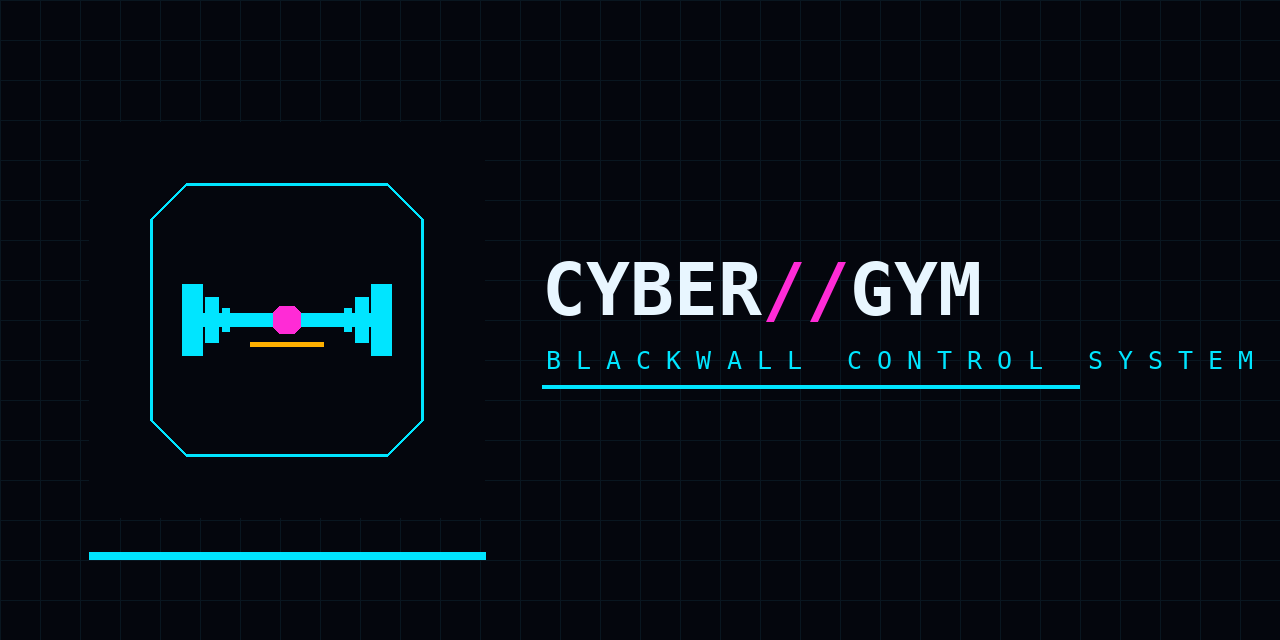
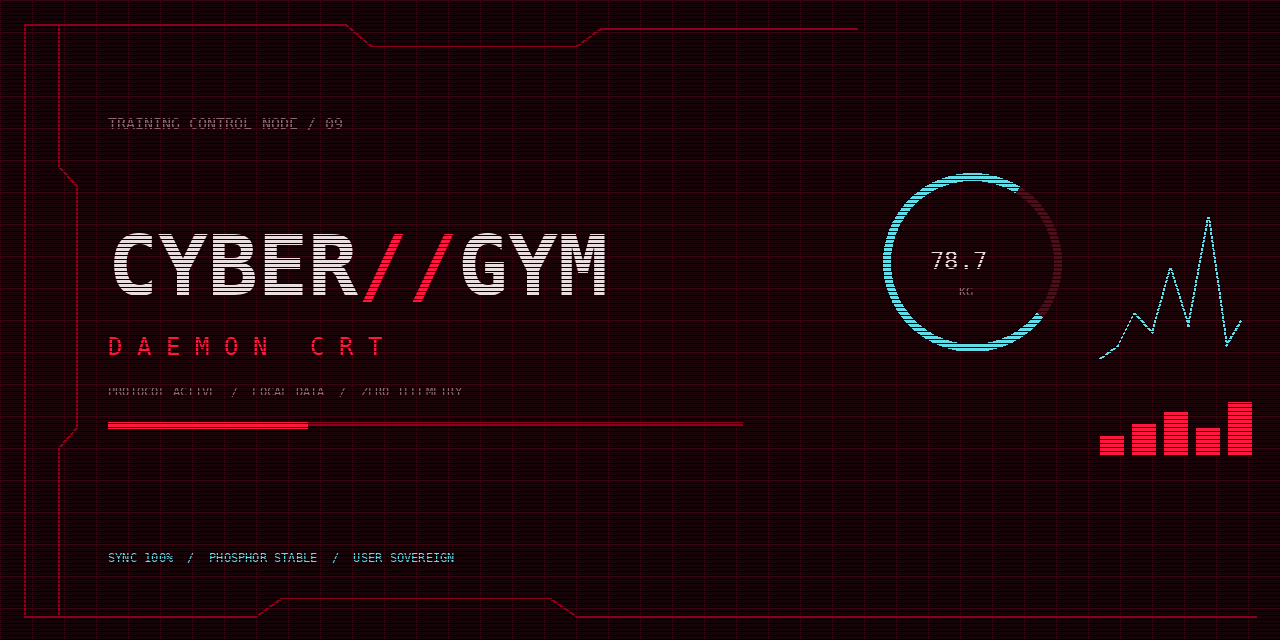
Refresh README visuals and mobile gallery

diff --git a/scripts/generate-brand-assets.py b/scripts/generate-brand-assets.py
@@ -84,33 +84,76 @@ def splash(w, h):
 
 
 def banner(w=1280, h=640):
-    img = Image.new('RGB', (w, h), BG[:3])
+    """Repository/social banner: a sparse DAEMON CRT control surface."""
+    daemon_bg = (8, 2, 4)
+    daemon_panel = (20, 4, 8)
+    daemon_red = (255, 23, 63)
+    daemon_red_dim = (139, 0, 28)
+    daemon_cyan = (98, 221, 232)
+    daemon_text = (234, 221, 224)
+    daemon_muted = (140, 105, 114)
+    img = Image.new('RGB', (w, h), daemon_bg)
     d = ImageDraw.Draw(img)
-    # grid
-    for x in range(0, w, 40):
-        d.line([(x, 0), (x, h)], fill=(9, 22, 32, 255))
-    for y in range(0, h, 40):
-        d.line([(0, y), (w, y)], fill=(9, 22, 32, 255))
-    size = int(h * 0.62)
-    mark = icon(size, maskable=True)
-    mx, my = int(w * 0.07), (h - size) // 2
-    img.paste(mark, (mx, my))
-    # wordmark
-    fs = int(h * 0.115)
-    f = ImageFont.truetype(FONT_MONO_BOLD, fs)
-    tx = mx + size + int(w * 0.045)
-    ty = h // 2 - fs
-    d.text((tx, ty), 'CYBER', font=f, fill=(232, 246, 255))
-    wlen = d.textlength('CYBER', font=f)
-    d.text((tx + wlen, ty), '//', font=f, fill=MAGENTA[:3])
-    wlen2 = d.textlength('CYBER//', font=f)
-    d.text((tx + wlen2, ty), 'GYM', font=f, fill=(232, 246, 255))
-    fs2 = int(h * 0.04)
-    f2 = ImageFont.truetype(FONT_MONO, fs2)
-    d.text((tx + 4, ty + int(fs * 1.35)), 'B L A C K W A L L   C O N T R O L   S Y S T E M', font=f2, fill=CYAN[:3])
-    d.rectangle([tx, ty + int(fs * 1.9), tx + int(w * 0.42), ty + int(fs * 1.9) + 3], fill=CYAN[:3])
-    # accent rule under the mark
-    d.rectangle([mx, my + size + 34, mx + size, my + size + 41], fill=CYAN[:3])
+
+    # Oxblood tube falloff and technical grid.
+    for y in range(h):
+        edge = abs((y / max(1, h - 1)) - 0.5) * 2
+        shade = int(8 * (1 - edge))
+        d.line([(0, y), (w, y)], fill=(daemon_panel[0] + shade, 4, 8))
+    grid = max(24, int(w / 40))
+    for x in range(0, w, grid):
+        d.line([(x, 0), (x, h)], fill=(54, 6, 17))
+    for y in range(0, h, grid):
+        d.line([(0, y), (w, y)], fill=(54, 6, 17))
+
+    rail = max(2, int(h * 0.003))
+    d.line([(24, 24), (int(w * .27), 24), (int(w * .29), 46), (int(w * .45), 46),
+            (int(w * .47), 28), (int(w * .67), 28)], fill=daemon_red_dim, width=rail)
+    d.line([(24, h - 24), (int(w * .2), h - 24), (int(w * .22), h - 42),
+            (int(w * .43), h - 42), (int(w * .45), h - 24), (w - 24, h - 24)],
+           fill=daemon_red_dim, width=rail)
+    d.line([(24, 24), (24, h - 24)], fill=daemon_red_dim, width=rail)
+    d.line([(58, 24), (58, int(h * .26)), (76, int(h * .29)), (76, int(h * .67)),
+            (58, int(h * .7)), (58, h - 24)], fill=daemon_red_dim, width=rail)
+
+    tx = int(w * 0.085)
+    f_title = ImageFont.truetype(FONT_MONO_BOLD, int(h * 0.13))
+    f_kicker = ImageFont.truetype(FONT_MONO, int(h * 0.024))
+    f_sub = ImageFont.truetype(FONT_MONO, int(h * 0.038))
+    f_data = ImageFont.truetype(FONT_MONO, int(h * 0.02))
+    d.text((tx, int(h * .18)), 'TRAINING CONTROL NODE / 09', font=f_kicker, fill=daemon_muted)
+    y_title = int(h * .34)
+    d.text((tx, y_title), 'CYBER', font=f_title, fill=daemon_text)
+    title_w = d.textlength('CYBER', font=f_title)
+    d.text((tx + title_w, y_title), '//', font=f_title, fill=daemon_red)
+    title_w2 = d.textlength('CYBER//', font=f_title)
+    d.text((tx + title_w2, y_title), 'GYM', font=f_title, fill=daemon_text)
+    d.text((tx, int(h * .52)), 'D A E M O N   C R T', font=f_sub, fill=daemon_red)
+    d.text((tx, int(h * .6)), 'PROTOCOL ACTIVE  /  LOCAL DATA  /  ZERO TELEMETRY', font=f_data, fill=daemon_muted)
+    d.rectangle([tx, int(h * .66), int(w * .58), int(h * .665)], fill=daemon_red_dim)
+    d.rectangle([tx, int(h * .66), int(w * .24), int(h * .67)], fill=daemon_red)
+
+    # Sparse telemetry: one ring, one trace, one bar bank.
+    cx, cy, radius = int(w * .76), int(h * .41), int(h * .14)
+    d.ellipse([cx - radius, cy - radius, cx + radius, cy + radius], outline=(71, 16, 27), width=max(4, rail * 4))
+    d.arc([cx - radius, cy - radius, cx + radius, cy + radius], 38, 302, fill=daemon_cyan, width=max(4, rail * 4))
+    d.text((cx - int(radius * .48), cy - int(h * .025)), '78.7', font=f_sub, fill=daemon_text)
+    d.text((cx - int(radius * .15), cy + int(h * .035)), 'KG', font=f_data, fill=daemon_muted)
+    gx0, gy0, gx1 = int(w * .86), int(h * .28), int(w * .97)
+    for idx in range(4):
+        gy = gy0 + idx * int(h * .075)
+        d.line([(gx0, gy), (gx1, gy)], fill=(93, 19, 34))
+    trace = [(gx0, int(h * .56)), (gx0 + 18, int(h * .54)), (gx0 + 34, int(h * .49)),
+             (gx0 + 52, int(h * .52)), (gx0 + 70, int(h * .42)), (gx0 + 88, int(h * .51)),
+             (gx0 + 108, int(h * .34)), (gx0 + 126, int(h * .54)), (gx1, int(h * .5))]
+    d.line(trace, fill=daemon_cyan, width=max(2, rail))
+    for idx, height in enumerate((18, 30, 42, 26, 52)):
+        x = gx0 + idx * int(w * .025)
+        d.rectangle([x, int(h * .71) - height, x + int(w * .018), int(h * .71)], fill=daemon_red)
+
+    d.text((tx, int(h * .86)), 'SYNC 100%  /  PHOSPHOR STABLE  /  USER SOVEREIGN', font=f_data, fill=daemon_cyan)
+    for y in range(3, h, 4):
+        d.line([(0, y), (w, y)], fill=(0, 0, 0), width=1)
     return img
 
 

diff --git a/README.md b/README.md
@@ -1,14 +1,36 @@
 # Cyber Gym
 
-![Cyber Gym](assets/banner.svg)
+![Cyber Gym — DAEMON CRT training control system](assets/banner.svg)
 
 **Персональный дневник тренировок и веса тела.** Программы, подходы, повторения, отдых,
 рекорды, статистика и ИИ-тренер — в одном тёмном интерфейсе, который работает как
 приложение на телефоне и как сайт на своём сервере.
 
-> **Blackwall** — так называется дизайн-система Cyber Gym: почти чёрный фон, тонкие
-> бирюзовые линии, рубленые углы и телеметрия моноширинным шрифтом. Светлой темы нет —
-> это осознанное решение, а не недоделка.
+> Две тёмные системы на выбор: **BLACKWALL** — холодная cyan-телеметрия и рубленый HUD;
+> **DAEMON CRT** — строгий oxblood-терминал с красными системными трассами, scanlines и
+> холодными индикаторами данных. Тема переключается в настройках без перезагрузки.
+
+## Интерфейс на телефоне
+
+<p align="center">
+  <img src="assets/screenshots/daemon-home-390.png" width="23%" alt="DAEMON CRT — главный экран">
+  <img src="assets/screenshots/daemon-workout-390.png" width="23%" alt="DAEMON CRT — активная тренировка">
+  <img src="assets/screenshots/daemon-stats-390.png" width="23%" alt="DAEMON CRT — статистика">
+  <img src="assets/screenshots/daemon-settings-390.png" width="23%" alt="DAEMON CRT — выбор темы в настройках">
+</p>
+
+<p align="center"><sub>DAEMON CRT · главный экран · тренировка · статистика · настройки</sub></p>
+
+<details>
+<summary>Посмотреть BLACKWALL</summary>
+
+<p align="center">
+  <img src="assets/screenshots/home-390.png" width="30%" alt="BLACKWALL — главный экран">
+  <img src="assets/screenshots/workout-390.png" width="30%" alt="BLACKWALL — активная тренировка">
+  <img src="assets/screenshots/stats-390.png" width="30%" alt="BLACKWALL — статистика">
+</p>
+
+</details>
 
 ## Что умеет
 
@@ -77,7 +99,7 @@ cd android && ./gradlew assembleDebug    # ANDROID_HOME должен быть в
 ## Тесты и проверка
 
 ```bash
-cd frontend && npm test                  # 126 файлов тестов
+cd frontend && npm test                  # 131 файл тестов
 cd api && npm test                       # node --test
 cd mcp && npm test                       # vitest
 cd frontend && npm run build             # production-сборка
